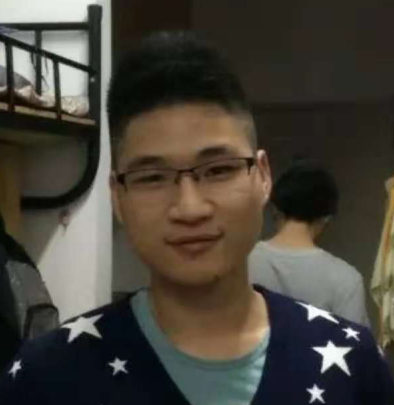
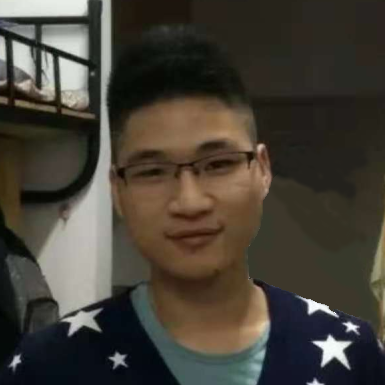
添加 关于我 章节，更换头像

diff --git a/index.html b/index.html
@@ -80,11 +80,11 @@
     aside section {
         margin: 30px 20px 0px 40px;
         border-bottom: 2px solid #eee;
-        padding-bottom: 20px;
+        padding-bottom: 30px;
     }
 
     section h2 {
-        padding-bottom: 10px;
+        padding-bottom: 20px;
         color: #5c99ca;
         flex-shrink: 16px
     }
@@ -255,9 +255,11 @@
                     <h2>关于我</h2>
                     <p>熟练 HTML、DIV+CSS 的页面布局，能根据设计图完成页面制作</p>
                     <p>熟悉 HTML5、CSS3 新增功能，了解 Canvas动画制作</p>
-                    <p>熟悉掌握原生 JavaScript，熟悉 jQuery</p>
+                    <p>熟悉掌握原生 JavaScript，熟悉 ES6 常用规范，熟悉 jQuery</p>
                     <p>熟悉 Vue.js 技术栈及 Vue全家桶，了解 React</p>
+                    <p>熟悉模块化、工程化开发流程，能够配置 webpack</p>
                     <p>熟练使用VsCode、WebStorm、Sass、Git 等开发工具</p>
+                    <p>有小程序、移动端开发经验</p>
                     <p>了解 Node.js ,能够开发简单的后台数据库</p>
                 </section>
             </main>
